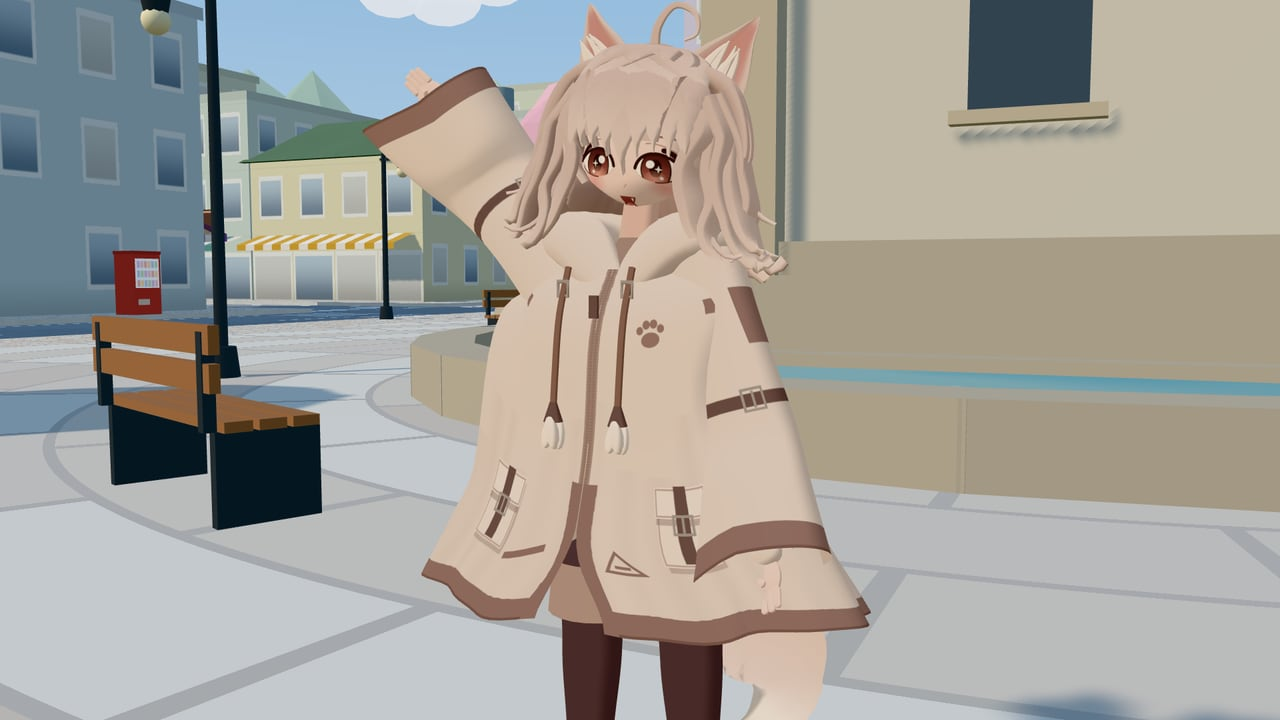
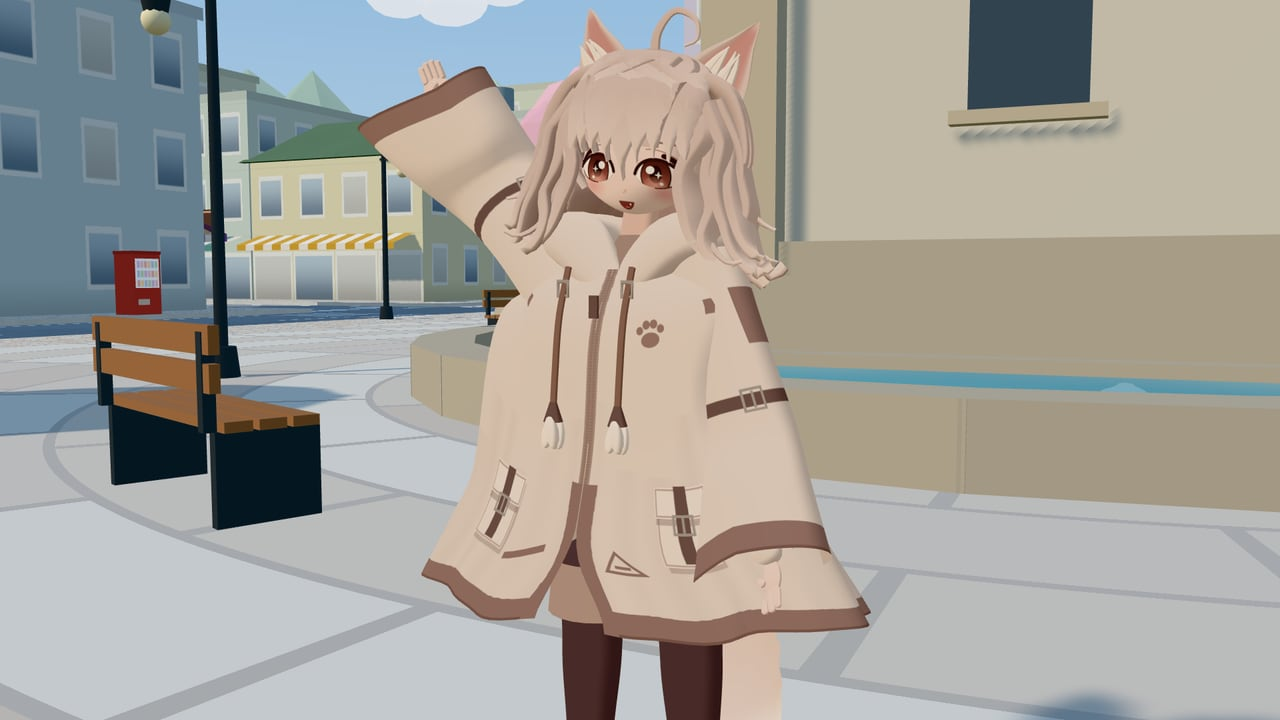
Shorten the neck, fill out the jaw, and fix the open-mouth decal
The open-mouth face texture stroked the tongue ellipse instead of the
mouth outline (the path was not rebuilt after clipping), so a ring hung
below the mouth. Rebuild the outline before stroking, and make the open
mouth slightly smaller so it stays clear of the chin curve.

The head sits 8 mm lower and the inner collar 4 mm higher, so less neck
shows between the chin and the collar. The lower cheeks and jaw are up
to 10% wider and the chin a few millimetres lower, so the face blends
into the neck instead of looking like a ball on a stick.

README hero and title screenshots are re-captured with the new face; the
dev model viewer gains a low "faceUnder" view.

AI-Model: claude-opus-5-5
AI-Effort: max

diff --git a/src/character/faceTexture.js b/src/character/faceTexture.js
@@ -229,26 +229,33 @@ function drawMouth(ctx, kind) {
     ctx.bezierCurveTo(cx - 12, cy + 10, cx + 12, cy + 10, cx + 26, cy - 6);
     ctx.stroke();
   } else if (kind === 'open') {
-    ctx.beginPath();
-    ctx.moveTo(cx - 26, cy - 6);
-    ctx.bezierCurveTo(cx - 15, cy + 27, cx + 15, cy + 27, cx + 26, cy - 6);
-    ctx.closePath();
+    // 浅めの開いた口。あご先の丸みにかからないよう、下へ深くしすぎない
+    const outline = () => {
+      ctx.beginPath();
+      ctx.moveTo(cx - 23, cy - 5);
+      ctx.bezierCurveTo(cx - 13, cy + 20, cx + 13, cy + 20, cx + 23, cy - 5);
+      ctx.closePath();
+    };
+    outline();
     ctx.fillStyle = '#9a4f52';
     ctx.fill();
     ctx.save();
     ctx.clip();
     ctx.fillStyle = '#e88a8c';
     ctx.beginPath();
-    ctx.ellipse(cx, cy + 19, 17, 10, 0, 0, Math.PI * 2);
+    ctx.ellipse(cx, cy + 14, 14, 7, 0, 0, Math.PI * 2);
     ctx.fill();
     ctx.restore();
+    // 舌を描いたあとは今のパスが舌の楕円なので、口の輪郭を引き直してから線を描く
+    // （そのまま stroke すると、口の下に舌の輪が線でぶら下がって見える）
+    outline();
     ctx.stroke();
     // 小さな八重歯
     ctx.fillStyle = '#ffffff';
     ctx.beginPath();
-    ctx.moveTo(cx + 10, cy - 2);
-    ctx.lineTo(cx + 19, cy - 3);
-    ctx.lineTo(cx + 15, cy + 7);
+    ctx.moveTo(cx + 8, cy - 2);
+    ctx.lineTo(cx + 16, cy - 3);
+    ctx.lineTo(cx + 12, cy + 5);
     ctx.closePath();
     ctx.fill();
   } else if (kind === 'o') {

diff --git a/src/character/CourierModel.js b/src/character/CourierModel.js
@@ -36,6 +36,10 @@ function skullDeform(x, y, z) {
   const cheek = Math.exp(-(((y + 0.6) / 0.27) ** 2)) * THREE.MathUtils.smoothstep(z, -0.25, 0.35);
   X *= 1 + 0.22 * cheek;
   Z *= 1 + 0.045 * cheek;
+  // あごまわり：頬の下からあご先までをふっくら広げ、あご先をわずかに下げて、首へなめらかにつなぐ
+  const jaw = Math.exp(-(((y + 0.84) / 0.2) ** 2)) * THREE.MathUtils.smoothstep(z, -0.35, 0.25);
+  X *= 1 + 0.1 * jaw;
+  if (y < 0) Y -= 0.005 * THREE.MathUtils.smoothstep(-y, 0.55, 1.0) * THREE.MathUtils.smoothstep(z, -0.2, 0.45);
   return [X, Y, Z];
 }
 
@@ -178,7 +182,8 @@ export class CourierModel {
     const spine = this._joint('spine', hips, 0, 0.08, 0);
     const chest = this._joint('chest', spine, 0, 0.17, 0);
     const neck = this._joint('neck', chest, 0, 0.18, -0.005);
-    this._joint('head', neck, 0, 0.07, 0.005);
+    // 首は短め（あごの下から襟までが少しだけ見える）
+    this._joint('head', neck, 0, 0.062, 0.005);
     for (const [s, sg] of [
       ['L', 1],
       ['R', -1],
@@ -256,7 +261,7 @@ export class CourierModel {
     this._mesh('neck', neck, toonMat(0xeccbc0), j.head);
     // インナーの襟：首に沿って、コートの襟ぐりとのすき間をふさぐ
     const collar = new THREE.CylinderGeometry(0.026, 0.088, 0.1, 24, 2, true);
-    collar.translate(0, 0.186, 0.002);
+    collar.translate(0, 0.19, 0.002);
     this._mesh('innerCollar', collar, toonMat(PALETTE.undershirt, { side: THREE.DoubleSide }), j.chest);
   }
 

diff --git a/dev/model.js b/dev/model.js
@@ -55,6 +55,7 @@ const VIEWS = {
   face: { pos: [0, 1.33, 0.9], target: [0, 1.31, 0], fov: 25 },
   faceQ: { pos: [0.55, 1.36, 0.7], target: [0, 1.31, 0], fov: 25 },
   faceLow: { pos: [0.04, 1.16, 0.85], target: [0, 1.29, 0], fov: 28 },
+  faceUnder: { pos: [0.02, 1.0, 0.5], target: [0, 1.29, 0], fov: 34 },
   top: { pos: [0, 3.6, 0.6], target: [0, 0.7, 0], fov: 25 },
 };
 function setView(name) {

diff --git a/README.md b/README.md
@@ -75,6 +75,7 @@
 
 ## 更新履歴
 
+- **2026-10-01**：主人公の首を少し短くし、ほほの下からあご先までをふっくらさせて、首となめらかにつながるように調整。口を開けたとき、舌の輪郭が口の下にはみ出して見えていたのを修正。
 - **2026-10-01**：魚市場などの屋根が、下から見上げると表示されなかったのを修正（屋根を厚みのある板にして、軒裏・屋根裏も描くように）。神社の石段を横から見ると、段の下が透けて見えていたのを修正。
 - **2026-10-01**：ポーズ中に「設定」「あそびかた」を開くと、ポーズ画面の裏に隠れて操作できなかったのを修正（Esc では開いている画面だけを閉じるように）。ゲームパッドの右スティックと Q・E キーで視点が逆向きに回っていたのを、倒した方・押した方を向くように修正。
 - **2026-10-01**：公開
